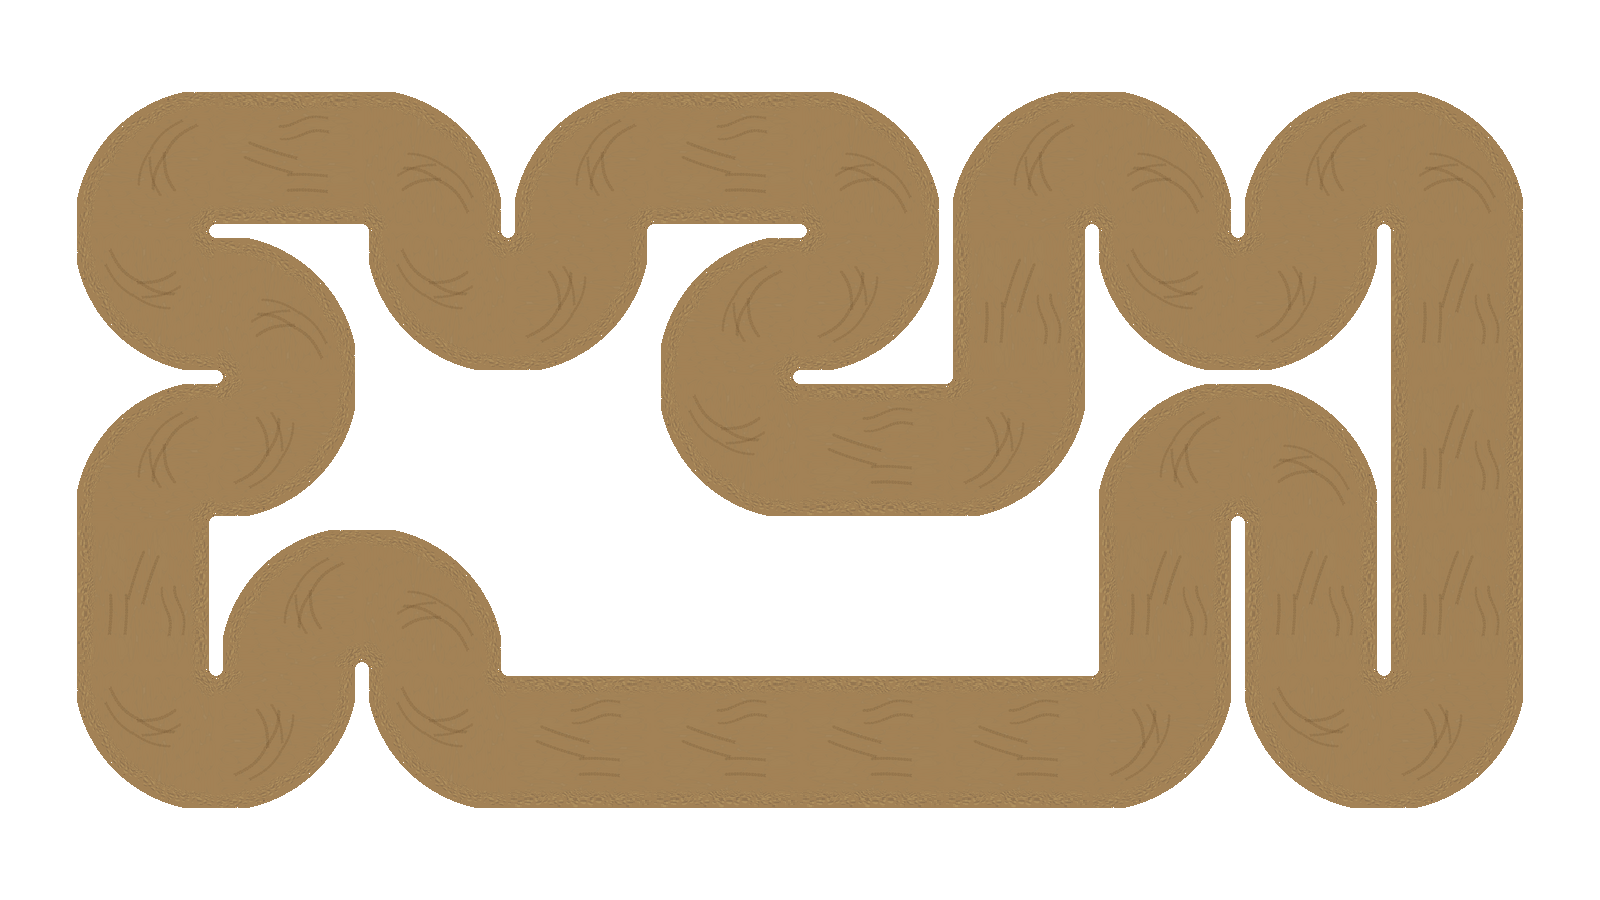
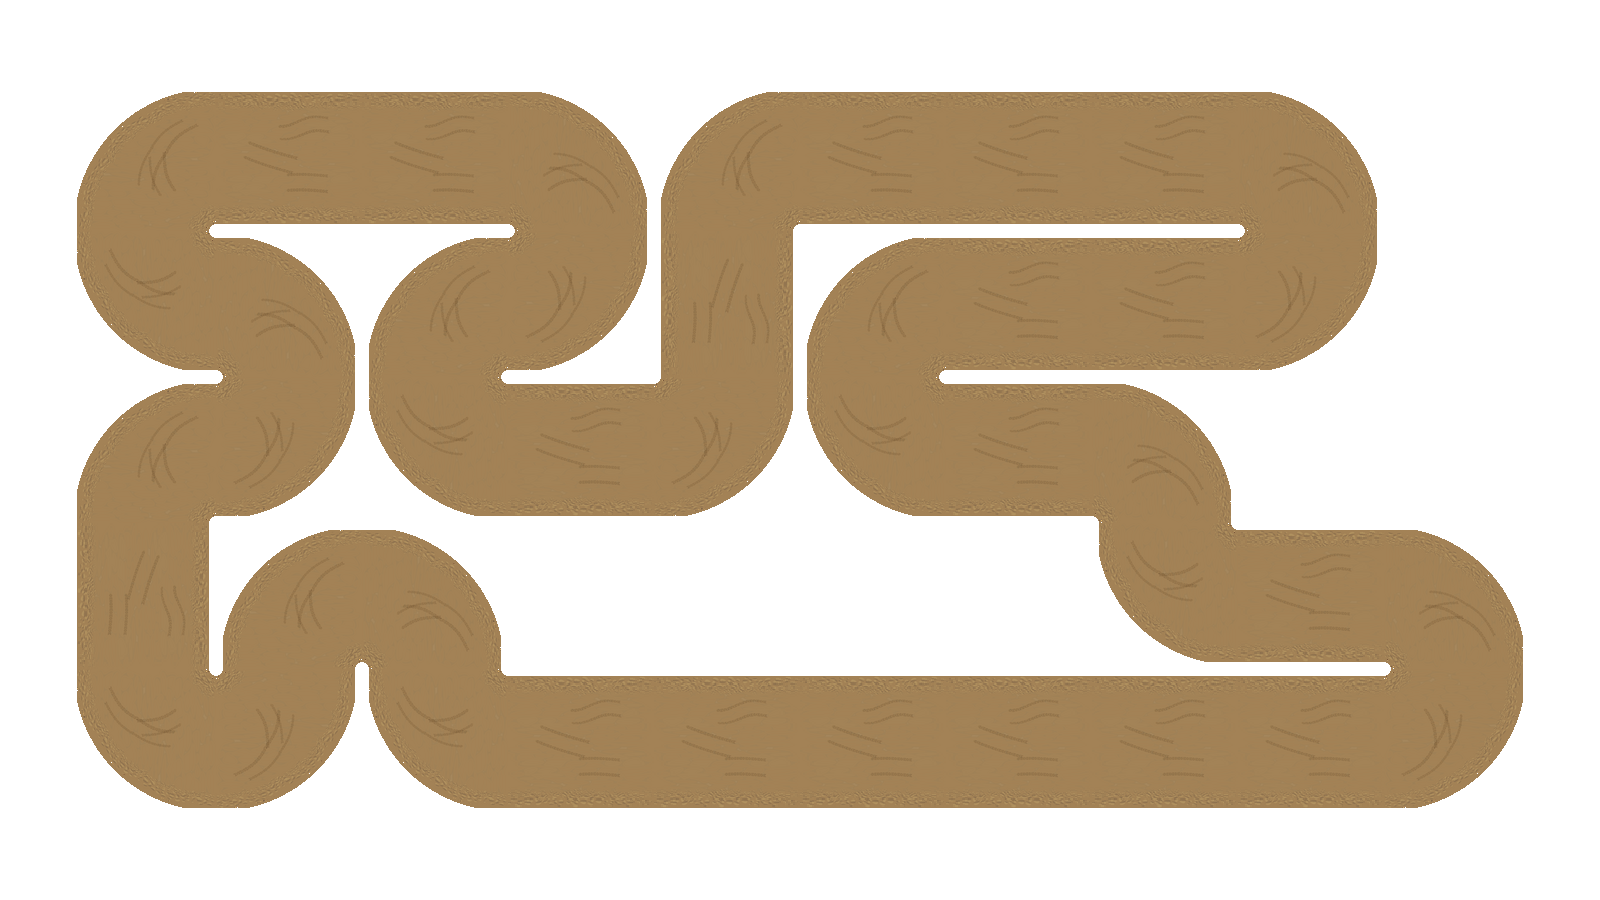
Implemented automatic breeding every 30 seconds based on current scores

Changed region(s): [[0.2188, 0.0933, 0.9688, 0.9022]]

diff --git a/nnCarGame.py b/nnCarGame.py
@@ -30,6 +30,7 @@ display_info = True  # If true then display info is shown
 frames = 0
 maxSpeed = 10
 number_track = 1
+automaticBreeding = True
 
 white_small_car = pygame.image.load('Images/Sprites/white_small.png')
 white_big_car = pygame.image.load('Images/Sprites/white_big.png')
@@ -528,22 +529,26 @@ class Car:
         self.acceleration = accel
     
     def rotate(self, rot):
-        self.angle += rot
+        if self.velocity >= 1.5:
+            self.angle += rot
         if self.angle > 360:
             self.angle = 0
         if self.angle < 0:
             self.angle = 360 + self.angle
     
     def update(self):
-        self.score += self.velocity
-        if self.acceleration != 0:
+        if self.velocity >= 1.5:
+            self.score += self.velocity
+        if self.acceleration >= 0.2:
             self.velocity += self.acceleration
             if self.velocity > maxSpeed:
                 self.velocity = maxSpeed
             elif self.velocity < 0:
                 self.velocity = 0
-        else:
+        elif self.velocity > 0.5:
             self.velocity *= 0.92
+        else:
+            self.velocity += 1
         
         self.x, self.y = move((self.x, self.y), self.angle, self.velocity)
         self.center = self.x, self.y
@@ -651,7 +656,7 @@ class Car:
 
 
 nnCars = []  # List of neural network cars
-num_of_nnCars = 50  # Number of neural network cars
+num_of_nnCars = 100  # Number of neural network cars
 alive = num_of_nnCars  # Number of not collided (alive) cars
 collidedCars = []  # List containing collided cars
 
@@ -748,7 +753,7 @@ for i in range(num_of_nnCars):
     nnCars.append(Car([inputLayer, hiddenLayer, outputLayer]))
 
 
-def redrawGameWindow():  # Called on very frame
+def redrawGameWindow():  # Called on every frame
     
     global alive
     global frames
@@ -1043,6 +1048,132 @@ while True:
         car.set_accel(0)
     if keys[pygame.K_DOWN]:
         car.set_accel(-0.2)
+    
+    if automaticBreeding:
+        if frames >= 900:
+            frames = 0
+            if generation % 10 == 0:
+                if len(selectedCars) == 0:
+                    tempBestScore = 0
+                    tempSecondBest = 0
+                    for nncar in nnCars:
+                        if nncar.score > tempBestScore:
+                            tempSecondBest = tempBestScore
+                            tempBestScore = nncar.score
+                    for nncar in nnCars:
+                        if nncar.score == tempBestScore or nncar.score == tempSecondBest:
+                            selected += 1
+                            selectedCars.append(nncar)
+                        if selected == 2:
+                            break
+        
+                if len(selectedCars) == 2:
+                    for nncar in nnCars:
+                        nncar.score = 0
+            
+                    alive = num_of_nnCars
+                    generation += 1
+                    selected = 0
+                    nnCars.clear()
+            
+                    for i in range(num_of_nnCars):
+                        nnCars.append(Car([inputLayer, hiddenLayer, outputLayer]))
+            
+                    for i in range(0, num_of_nnCars - 2, 2):
+                        uniformCrossOverWeights(selectedCars[0], selectedCars[1], nnCars[i], nnCars[i + 1])
+                        uniformCrossOverBiases(selectedCars[0], selectedCars[1], nnCars[i], nnCars[i + 1])
+            
+                    nnCars[num_of_nnCars - 2] = selectedCars[0]
+                    nnCars[num_of_nnCars - 1] = selectedCars[1]
+            
+                    nnCars[num_of_nnCars - 2].car_image = green_small_car
+                    nnCars[num_of_nnCars - 1].car_image = green_small_car
+            
+                    nnCars[num_of_nnCars - 2].resetPosition()
+                    nnCars[num_of_nnCars - 1].resetPosition()
+            
+                    nnCars[num_of_nnCars - 2].collided = False
+                    nnCars[num_of_nnCars - 1].collided = False
+            
+                    for i in range(num_of_nnCars - 2):
+                        for j in range(mutationRate):
+                            mutateOneWeightGene(nnCars[i], auxcar)
+                            mutateOneWeightGene(auxcar, nnCars[i])
+                            mutateOneBiasesGene(nnCars[i], auxcar)
+                            mutateOneBiasesGene(auxcar, nnCars[i])
+            
+                    for nncar in nnCars:
+                        nncar.x = 140
+                        nncar.y = 610
+            
+                    selectedCars.clear()
+            
+                    number_track = 2
+                    for nncar in nnCars:
+                        nncar.velocity = 0
+                        nncar.acceleration = 0
+                        nncar.x = 140
+                        nncar.y = 610
+                        nncar.angle = 180
+                        nncar.collided = False
+                    generateRandomMap(gameDisplay)
+                    bg = pygame.image.load('randomGeneratedTrackFront.png')
+                    bg4 = pygame.image.load('randomGeneratedTrackBack.png')
+            else:
+                if len(selectedCars) == 0:
+                    tempBestScore = 0
+                    tempSecondBest = 0
+                    for nncar in nnCars:
+                        if nncar.score > tempBestScore:
+                            tempSecondBest = tempBestScore
+                            tempBestScore = nncar.score
+                    for nncar in nnCars:
+                        if nncar.score == tempBestScore or nncar.score == tempSecondBest:
+                            selected += 1
+                            selectedCars.append(nncar)
+                        if selected == 2:
+                            break
+        
+                if len(selectedCars) == 2:
+                    for nncar in nnCars:
+                        nncar.score = 0
+            
+                    alive = num_of_nnCars
+                    generation += 1
+                    selected = 0
+                    nnCars.clear()
+            
+                    for i in range(num_of_nnCars):
+                        nnCars.append(Car([inputLayer, hiddenLayer, outputLayer]))
+            
+                    for i in range(0, num_of_nnCars - 2, 2):
+                        uniformCrossOverWeights(selectedCars[0], selectedCars[1], nnCars[i], nnCars[i + 1])
+                        uniformCrossOverBiases(selectedCars[0], selectedCars[1], nnCars[i], nnCars[i + 1])
+            
+                    nnCars[num_of_nnCars - 2] = selectedCars[0]
+                    nnCars[num_of_nnCars - 1] = selectedCars[1]
+            
+                    nnCars[num_of_nnCars - 2].car_image = green_small_car
+                    nnCars[num_of_nnCars - 1].car_image = green_small_car
+            
+                    nnCars[num_of_nnCars - 2].resetPosition()
+                    nnCars[num_of_nnCars - 1].resetPosition()
+            
+                    nnCars[num_of_nnCars - 2].collided = False
+                    nnCars[num_of_nnCars - 1].collided = False
+            
+                    for i in range(num_of_nnCars - 2):
+                        for j in range(mutationRate):
+                            mutateOneWeightGene(nnCars[i], auxcar)
+                            mutateOneWeightGene(auxcar, nnCars[i])
+                            mutateOneBiasesGene(nnCars[i], auxcar)
+                            mutateOneBiasesGene(auxcar, nnCars[i])
+                    if number_track != 1:
+                        for nncar in nnCars:
+                            nncar.x = 140
+                            nncar.y = 610
+            
+                    selectedCars.clear()
     
     redrawGameWindow()
     
